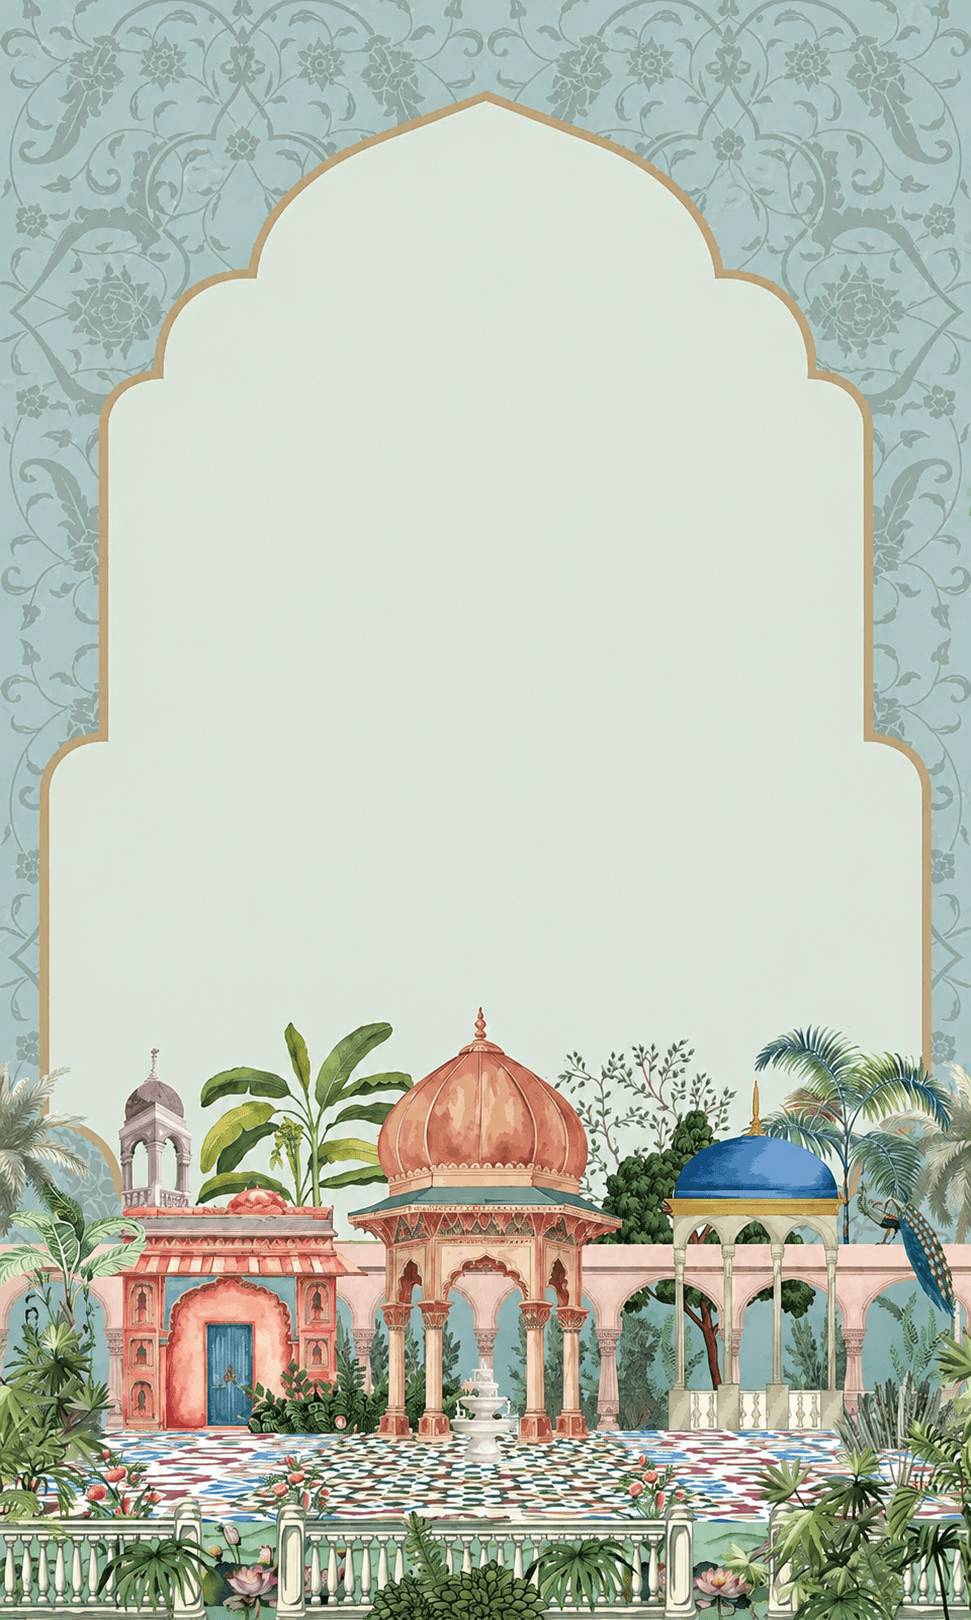
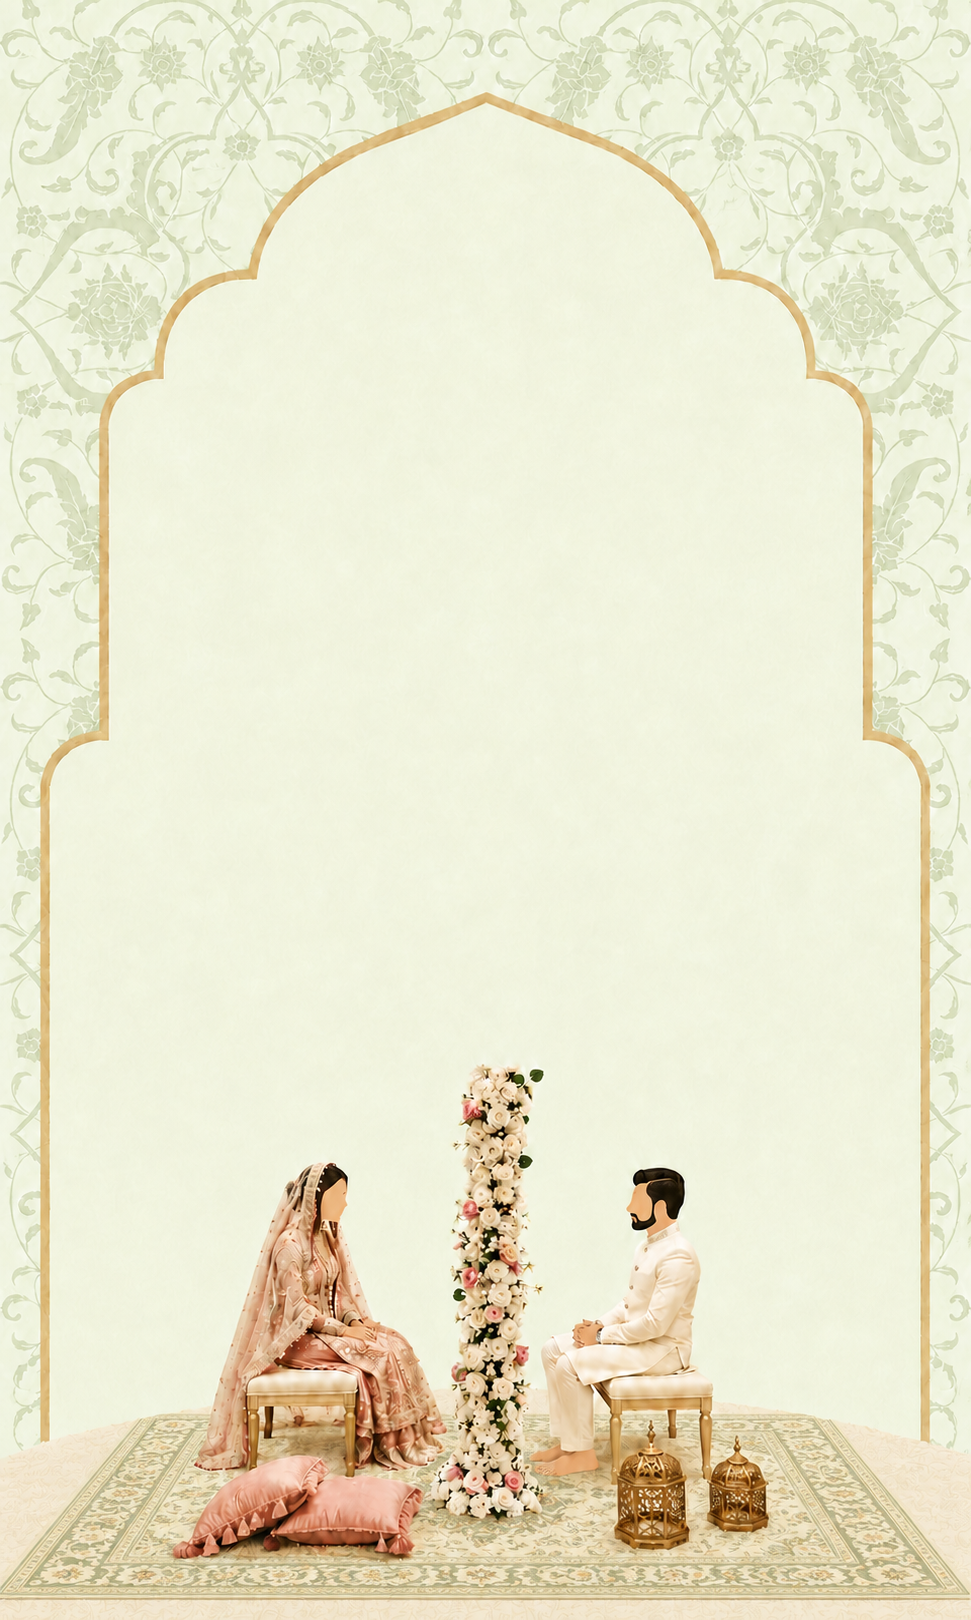
Adjust invitation layout: move intro text down, enlarge calligraphy, tighten akt spacing, lighten walima fonts

diff --git a/index.html b/index.html
@@ -15,7 +15,7 @@
     <link href="https://fonts.googleapis.com/css2?family=Dancing+Script:wght@600&family=Great+Vibes&family=Monte+Carlo&family=Amiri:wght@400;700&family=Montserrat:wght@400;500;600;700&display=swap" rel="stylesheet" />
 
     <!-- Main Stylesheet -->
-    <link rel="stylesheet" href="css/style.css?v=1.0.36">
+    <link rel="stylesheet" href="css/style.css?v=1.0.44">
 </head>
 <body>
 
@@ -56,26 +56,27 @@
             </div>
             <div class="invitation-content" id="invitationContent">
                 <img src="Wedding/InvitaionArabicCaligraphy.png?v=1.0.15" alt="Arabic Calligraphy" class="arabic-caligraphy-img fade-text delay-1" />
-                <p class="intro-lead fade-text delay-3">We Cordially Invite You To The</p>
-                <h1 class="intro-title fade-text delay-2">Wedding Ceremony</h1>
 
-                <p class="intro-parents fade-text delay-5" style="font-size: 0.65rem; margin-bottom: 5px;">
-                    of the son of <b>Mohammed Musa and Nasrin Sultana</b><br>
-                    Grandson of <b>Late Haje Mohd Ishaque</b><br>
-                    <span style="font-size: 0.55rem; font-style: italic;">East Shikerpur, Nyamot Ali road, Hathazari, Chittagong</span>
-                </p>
+                <div class="intro-title-script fade-text delay-2">Invitation</div>
 
-                <h2 class="intro-name fade-text delay-4">Mohammed Tazrian</h2>
-                <div class="intro-with fade-text delay-4">&</div>
-                <h2 class="intro-name fade-text delay-4">Tashfiha Faruk</h2>
+                <div class="intro-lead fade-text delay-3">We Cordially Invite You To The Wedding Ceremony<br>Of Our Son</div>
 
-                <p class="intro-parents fade-text delay-5" style="font-size: 0.65rem; margin-top: 5px;">
-                    daughter of <b>Mohammed Faruk and Rasheda Begum</b><br>
-                    Granddaughter of <b>Late Haje Saleh Ahmed Sowdagor</b><br>
-                    <span style="font-size: 0.55rem; font-style: italic;">North Mohara, Chandgaon, Chittagong</span>
-                </p>
+                <div class="intro-name-groom fade-text delay-4">Mohammed Tazrian</div>
 
-                <div class="blessings-text fade-text delay-6">Blessings Only</div>
+                <div class="intro-with-script fade-text delay-4">With</div>
+
+                <div class="intro-name-bride fade-text delay-4">Tashfiha Faruk</div>
+
+                <div class="intro-bride-parentage fade-text delay-5">Daughter Of <strong>Mohammed Faruk & Rasheda Begum.</strong></div>
+
+                <div class="intro-message fade-text delay-5">MAY WE HUMBLY REQUEST YOUR GRACIOUS BLESSINGS FOR THE NEWLYWEDS AS THEY BEGIN THEIR LIFE TOGETHER.</div>
+
+                <div class="intro-regards-container fade-text delay-6">
+                    <div class="regards-label">Regards</div>
+                    <div class="regards-names">Mohammed Musa<br>& Nasrin Sultana</div>
+                </div>
+
+                <div class="blessings-text-bottom fade-text delay-6">Blessings Only</div>
             </div>
         </div>
 
@@ -87,9 +88,9 @@
 
                 <div class="henna-details fade-text delay-3">
                     <div><strong>Venue:</strong> Bagan Bari (Isahoque Haji)</div>
-                    <div class="henna-venue-address">Haji Neyamot Ali Road, Hatazari</div>
-                    <div><strong>Date:</strong> 4<sup>th</sup> September, 2026</div>
-                    <div><strong>Time:</strong> 7pm</div>
+                    <div class="henna-venue-address">Haji Neyamot Ali Road, Hatazari.</div>
+                    <div><strong>Date:</strong> 4<sup>th</sup> September, 2026.</div>
+                    <div><strong>Time:</strong> 7 P.M.</div>
                 </div>
 
                 <div class="henna-dress-code fade-text delay-4">
@@ -124,21 +125,21 @@
         <div class="card card-akt" id="slide-2">
             <div class="akt-content">
                 <img src="Wedding/AktArabicCaligraphy.png?v=1.0.15" alt="Arabic Calligraphy" class="arabic-caligraphy-img fade-text delay-1" />
-                <h2 class="akt-title-main fade-text delay-2">Akhd Ceremony</h2>
-                <p class="akt-message fade-text delay-3">With the grace of Allah, we begin our forever. We'd love for you to share this special moment with us.</p>
+                <div class="akt-title-main fade-text delay-2">Akhd Ceremony</div>
+                <div class="akt-message fade-text delay-3">By the grace of Allah, we humbly seek your good wishes for the newlyweds, and would be deeply honored to have you share this blessed occasion.</div>
 
                 <div class="akt-details-group fade-text delay-4">
                     <div class="akt-info-row">
                         <span class="akt-label"></br>Venue:</span>
-                        <span class="akt-value"></br>&nbsp;Railway Masjid, CRB</span>
+                        <span class="akt-value"></br>&nbsp;Railway Masjid, CRB.</span>
                     </div>
                     <div class="akt-info-row">
                         <span class="akt-label">Date:</span>
-                        <span class="akt-value">&nbsp;5<sup>th</sup> September, 2026</span>
+                        <span class="akt-value">&nbsp;5<sup>th</sup> September, 2026.</span>
                     </div>
                     <div class="akt-info-row">
                         <span class="akt-label">Time:</span>
-                        <span class="akt-value">&nbsp;Baad Asr Namaz</span>
+                        <span class="akt-value">&nbsp;Baad Asr Namaz.</span>
                     </div>
                 </div>
             </div>
@@ -157,7 +158,7 @@
                 </div>
 
                 <div class="wedding-venue-row fade-text delay-5">
-                    <span class="script-text">King Of Chittagong,</span> </br>Panchlaish, Chattogram
+                    <span class="script-text">King Of Chittagong,</span> </br>Panchlaish, Chattogram.
                 </div>
 
                 <div class="wedding-time-row fade-text delay-6">
@@ -174,22 +175,22 @@
         <div class="card card-walima" id="slide-4">
             <div class="walima-content">
                 <img src="Wedding/WalimaArabicCaligraphy.png?v=1.0.15" alt="Arabic Calligraphy" class="arabic-caligraphy-img fade-text delay-1" />
-                <h2 class="walima-title-main fade-text delay-2">Walima</h2>
-                <p class="walima-message fade-text delay-3">With Joyful Hearts, We request The Honor Of<br>Your Presence And Blessing On The Auspicious<br>Occasion Of The Walima Ceremony</p>
+                <div class="walima-title-main fade-text delay-2">Walima Ceremony</div>
+                <div class="walima-message fade-text delay-3">With Joyful Hearts, We Request The Honor Of<br>Your Presence And Blessing On The Auspicious<br>Occasion Of The Walima Ceremony.</div>
 
                 <div class="walima-venue-label fade-text delay-4"></br>Venue</div>
                 <div class="walima-venue-name fade-text delay-4">Kings Of Chittagong,</div>
-                <div class="walima-venue-address fade-text delay-4">Panchlaish, Chattogram</div>
+                <div class="walima-venue-address fade-text delay-4">Panchlaish, Chattogram.</div>
 
                 <div class="walima-details-group fade-text delay-5">
                     <div class="walima-info-row">
                         <div class="walima-venue-label fade-text delay-4">Date</div>
                         <span class="walima-gold-value">12<sup>th</sup> September</br></span>
-                        <div class="walima-venue-label fade-text delay-4">2026</div>
+                        <div class="walima-venue-label fade-text delay-4">2026.</div>
                     </div>
                     <div class="walima-info-row">
                         <div class="walima-venue-label fade-text delay-4"></br>Time</div>
-                        <span class="walima-gold-label">8:00 P.M</span>
+                        <span class="walima-gold-label">8:00 P.M.</span>
                     </div>
                 </div>
                 <div class="blessings-text fade-text delay-6">Blessings Only</div>

diff --git a/css/style.css b/css/style.css
@@ -328,22 +328,6 @@ html, body {
 .delay-6 { transition-delay: 1.3s; }
 
 /* ---- GLOBAL TYPOGRAPHY INSIDE CARDS ---- */
-.card h2 {
-    font-family: 'Great Vibes', cursive;
-    font-size: 2rem;
-    color: var(--text-main);
-    margin-bottom: 4px;
-    letter-spacing: 1px;
-}
-
-.card p {
-    font-size: 1.05rem;
-    color: var(--text-sub);
-    line-height: 1.7;
-    max-width: 100%;
-    margin: 4px auto;
-}
-
 .card .label {
     font-weight: 600;
     color: #3e2c28;
@@ -394,67 +378,96 @@ html, body {
 .card-intro {
     background-image: url('../Wedding/(BG)IntroductionCard.png');
     justify-content: flex-start;
-    padding-top: 45px !important;
+    padding-top: 40px !important;
 }
 
-.intro-title {
+.intro-title-script {
     font-family: 'Great Vibes', cursive;
-    font-size: 2.2rem;
+    font-size: 1.7rem;
     color: #41563D;
-    margin-top: 0; /* Ensure no top margin */
-    margin-bottom: 2px; /* Tighter spacing */
+    margin-bottom: 2px;
+    font-weight: 400;
 }
 
 .intro-lead {
     font-family: 'Montserrat', sans-serif;
-    font-size: 0.85rem;
-    line-height: 1.2;
-    color: #41563D;
-    margin-bottom: 5px; /* Reduced margin */
-    padding: 0 5px;
-    font-weight: 500;
-}
-
-.intro-name {
-    font-family: 'Great Vibes', cursive;
-    font-size: 2.6rem;
-    color: #41563D;
-    margin: 2px 0; /* Reduced margin */
-    line-height: 1.1;
-    letter-spacing: 2px;
-}
-
-.intro-with {
-    font-family: 'Great Vibes', cursive;
-    font-size: 1.8rem;
-    color: #41563D;
-    margin: 0; /* Reduced margin */
-}
-
-.intro-parents {
-    font-family: 'Montserrat', sans-serif;
-    font-size: 0.85rem;
-    color: #41563D;
-    margin-top: 5px; /* Reduced margin */
+    font-size: 0.55rem;
     line-height: 1.4;
+    color: #000;
+    margin-bottom: 10px;
     font-weight: 500;
+    letter-spacing: 0.2px;
 }
 
-.intro-regards {
+.intro-name-groom, .intro-name-bride {
+    font-family: 'Great Vibes', cursive;
+    font-size: 2rem;
+    color: #000;
+    margin: 0;
+    line-height: 1.3;
+    font-weight: 400;
+}
+
+.intro-with-script {
+    font-family: 'Great Vibes', cursive;
+    font-size: 1.5rem;
+    color: #000;
+    margin: -3px 0;
+}
+
+.intro-bride-parentage {
     font-family: 'Montserrat', sans-serif;
+    font-size: 0.6rem;
+    color: #000;
+    margin-top: 8px;
+    margin-bottom: 12px;
+    font-weight: 400;
+}
+
+.intro-message {
+    font-family: 'Montserrat', sans-serif;
+    font-size: 0.46rem;
+    color: #000;
+    line-height: 1.5;
+    max-width: 82%;
+    margin: 0 auto 14px auto;
+    font-weight: 600;
+    letter-spacing: 0.5px;
+}
+
+.intro-regards-container {
     text-align: right;
     width: 100%;
     padding-right: 30px;
-    margin-top: 0px;
-    font-size: 0.80rem;
-    color: #41563D;
-    line-height: 1.3;
+    margin-top: 0;
+    color: #000;
 }
 
-.intro-regards strong {
-    display: block;
-    margin-top: 2px;
-    font-weight: 600;
+.regards-label {
+    font-family: 'Montserrat', sans-serif;
+    font-size: 0.70rem;
+    margin-bottom: 3px;
+    font-weight: 500;
+}
+
+.regards-names {
+    font-family: 'Montserrat', sans-serif;
+    font-size: 0.60rem;
+    font-weight: 700;
+    line-height: 1.4;
+}
+
+/* 'Blessings Only' pinned to the very bottom of the intro postcard */
+.blessings-text-bottom {
+    position: absolute;
+    left: 0;
+    right: 0;
+    bottom: 8px;
+    font-family: 'Great Vibes', cursive;
+    font-size: 1.1rem;
+    color: #000;
+    text-align: center;
+    pointer-events: none;
 }
 
 /* ---- Quran section: Centered in middle with slide transitions ---- */
@@ -728,14 +741,15 @@ html, body {
 
 /* Wedding: slightly larger calligraphy */
 .card-wedding .arabic-caligraphy-img {
-    width: 45%;
+    width: 65%;
     max-width: 210px;
 }
 
-/* Intro: much larger calligraphy */
+/* Intro: calligraphy sized to fit inside the postcard frame */
 .card-intro .arabic-caligraphy-img {
-    width: 80%;
-    max-width: 360px;
+    width: 68%;
+    max-width: 300px;
+    margin-bottom: 8px;
 }
 
 .akt-title-main {
@@ -754,9 +768,8 @@ html, body {
     line-height: 1.2 !important;
     text-align: center;
     padding: 0 5px;
-    margin-bottom: 40px;
+    margin-bottom: 10px;
     font-weight: 150;
-    padding bottom: 15 px;
 }
 
 .akt-details-group {
@@ -956,9 +969,10 @@ html, body {
 
 .walima-title-main {
     font-family: 'Great Vibes', cursive;
-    font-size: 2.6rem !important; /* Slightly increased */
+    font-size: 2.2rem !important;
+    font-weight: 630;
     color: #3e2723;
-    margin: 0 0 5px 0 !important; /* Fixed typo and adjusted margin */
+    margin: 0 0 5px 0 !important;
     text-align: center;
 }
 
@@ -1043,33 +1057,31 @@ html, body {
     position: static;
 }
 
-/* Intro: pinned to the BOTTOM inside the postcard (like Walima) */
-.card-intro .blessings-text {
-    position: absolute;
-    left: 0;
-    right: 0;
-    bottom: 7px; /* 10px further down than before */
-}
-
 /* Walima: 'Blessings Only' stays at the bottom of the card (previous place) */
 .card-walima .blessings-text {
     position: absolute;
     left: 0;
     right: 0;
     bottom: 20px;
+    font-weight: 500; /* Slightly lighter than the default 700 */
+}
+
+/* Desktop / tablets: keep the postcard at its native 9:16 portrait ratio
+   so it isn't stretched into a tall skinny shape on wide screens.
+   On phones (below 768px) the original 91vw x 82vh sizing is kept. */
+@media (min-width: 768px) {
+    .slider {
+        width: min(91vw, 428px, calc(82vh / 1.78));
+        height: min(82vh, calc(min(91vw, 428px) * 1.78));
+    }
 }
 
 /* Responsive scaling for mobile devices */
 @media (max-width: 480px) {
     .tap-hint { font-size: 1.6rem; top: -45px; }
-    h1 { font-size: 2rem; }
-    .card h2 { font-size: 1.6rem; }
-    .card p { font-size: 0.9rem; max-width: 95%; }
     .quran-arabic { font-size: 1.2rem; }
-    .card-intro { padding-top: 70px; } /* 30px higher on mobile too */
 }
 
 @media (max-width: 380px) {
     .quran-arabic { font-size: 1rem; }
-    .card h2 { font-size: 1.3rem; }
 }
